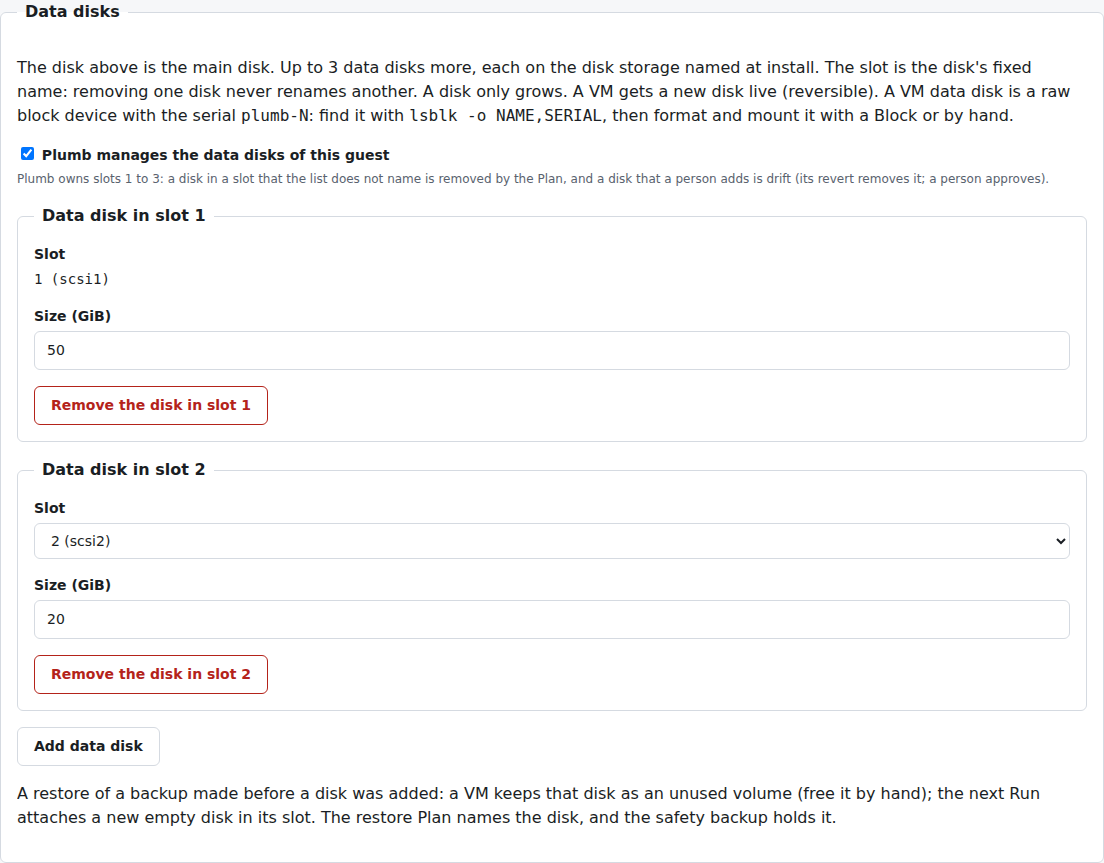
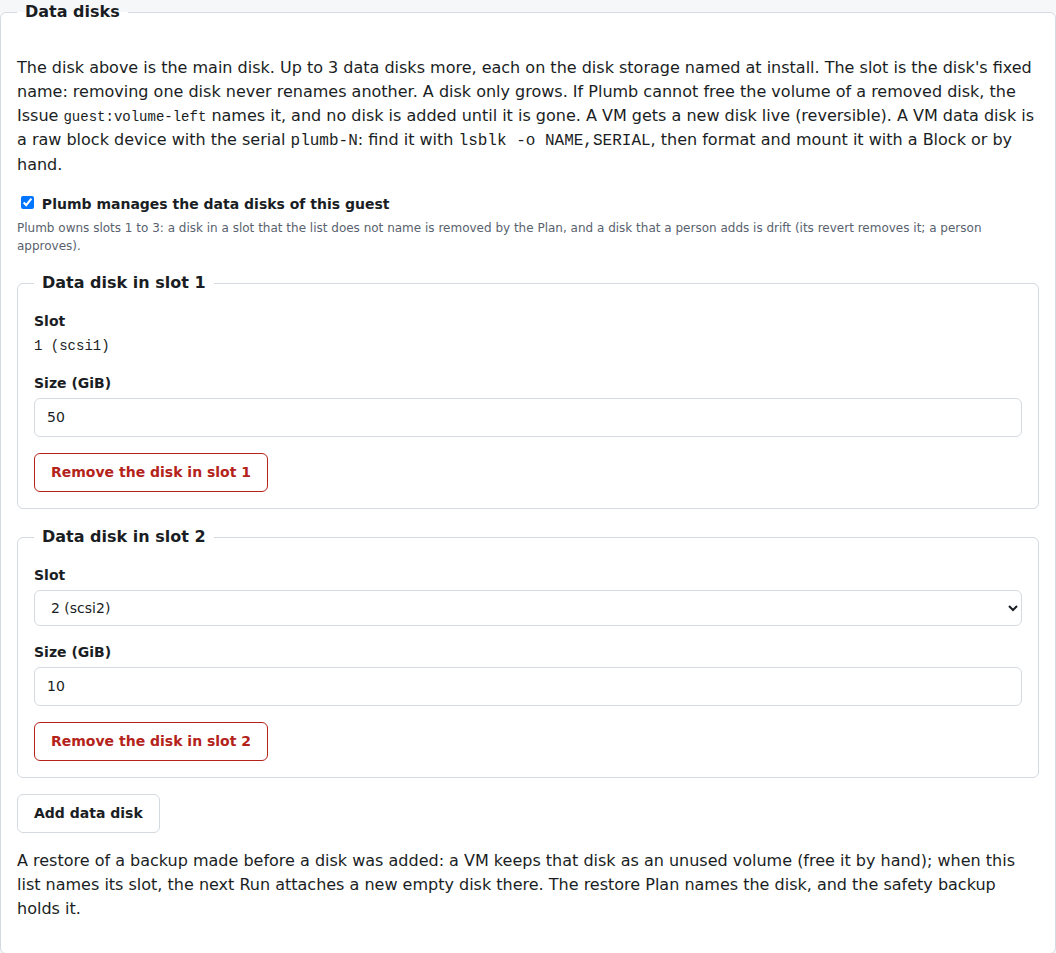
T-246: the repair run names the whole extra list (L2 of #384); the disk picture retaken from the mock (today's restore note)

diff --git a/README.md b/README.md
@@ -66,7 +66,9 @@ Two kinds of options are off unless you name them:
 
 - **More networks for guests:** `--extra-bridge <bridge>` lets a guest network card use one more
   bridge, untagged. `--extra-vlan <bridge>:<tag>[,<tag>…]` allows these VLAN tags on a VLAN-aware
-  bridge. Repeat each option for more. A Target can use only the bridges and tags named here.
+  bridge. Repeat each option for more. A Target can use only the bridges and tags named here. A
+  later run (a repair run) sets this list from its options alone: give every extra bridge and VLAN
+  again, or its right is removed.
 - **Guest backups:** `--guest-backup-storage <storage>` names the one storage for backups of your
   guests. The installer refuses a storage that can also hold guest disks or snippets (content
   `images`, `rootdir` or `snippets`). A Proxmox Backup Server storage with an encryption key keeps the backups encrypted.
@@ -187,8 +189,9 @@ full list of rights.
        Proxmox default); else the change waits for a restart. The agent removes the netplan file of
        a removed card. A card that comes back gets the same MAC address.
      - Plumb refuses the Plan for a bridge or a VLAN tag that the install did not name. The message
-       names the installer option (`--extra-bridge`, `--extra-vlan`); run the installer again with
-       it (see "Updates and repair").
+       names the installer options that it needs (`--extra-bridge`, `--extra-vlan`). Run the
+       installer again with every extra bridge and VLAN that the install has now, plus these (see
+       "Updates and repair").
    - **Data disks:** up to 3 more disks after the main disk, on the disk storage that the install
      named. Tick "Plumb manages the data disks of this guest" to manage them; then each disk has a
      **slot** (1 to 3) and a size. The slot is the disk's fixed name (a VM `scsi1` … `scsi3`, a
@@ -249,7 +252,7 @@ full list of rights.
    ![Edit page of Target web2: configured and reported address, image, type, and the guest settings cores, memory, disk, bridge and power](docs/screenshots/readme-target.png)
    <br>_One Target: its address, its Image and its guest settings._
 
-   ![Data disks of the VM db1: the box "Plumb manages the data disks of this guest", disk 1 of 50 GiB in its fixed slot scsi1, a new disk 2 of 20 GiB with a slot choice, and the restore note](docs/screenshots/readme-target-disks.png)
+   ![Data disks of the VM db1: the box "Plumb manages the data disks of this guest", disk 1 of 50 GiB in its fixed slot scsi1, a new disk 2 of 10 GiB (the default size) with a slot choice, and the restore note](docs/screenshots/readme-target-disks.png)
    <br>_The data disks of a VM: the slot is the disk's fixed name, and a disk only grows._
 
 7. **Plan:** "Show the plan" opens the Plan. Read it, then click "Approve and apply". The Run shows
@@ -531,8 +534,9 @@ destructive, and only a person with the role admin can approve it; an API token 
 
 Before anything changes, Plumb reads the network settings in the backup. If a network card of the
 backup is on a bridge or VLAN tag that the install does not name, Plumb refuses the restore (also
-the restore of a safety backup), and nothing is changed: run the installer again with that bridge
-or tag (a repair run), or restore another backup. The Run:
+the restore of a safety backup), and nothing is changed. The message names the options that it
+needs: run the installer again (a repair run) with every extra bridge and VLAN that the install
+has now, plus these; or restore another backup. The Run:
 
 1. stops the guest. A running guest needs "Plumb may restart this VM" (for a container: "this
    container") on the Target, or stop it yourself first;
